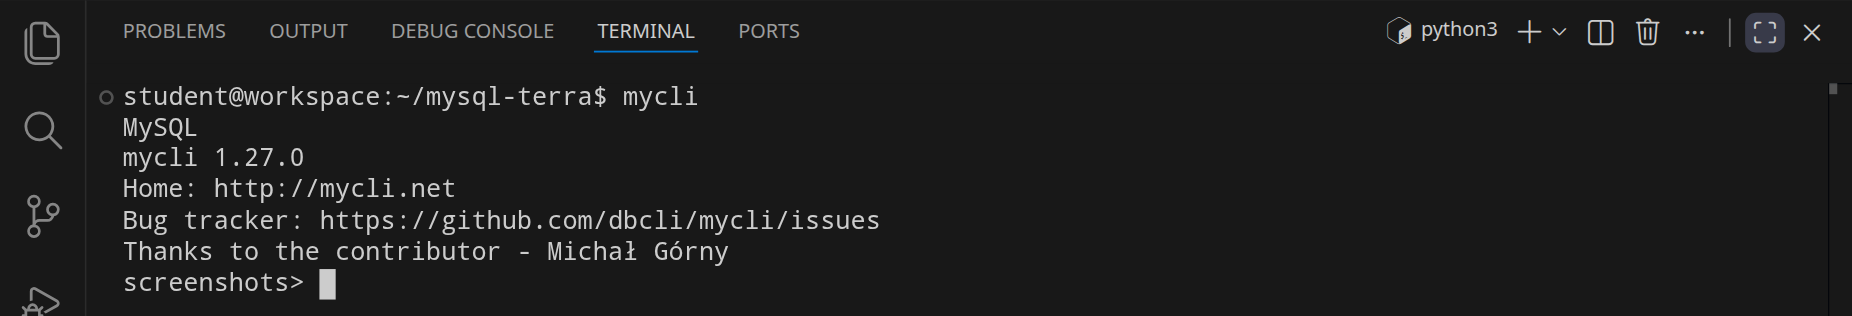
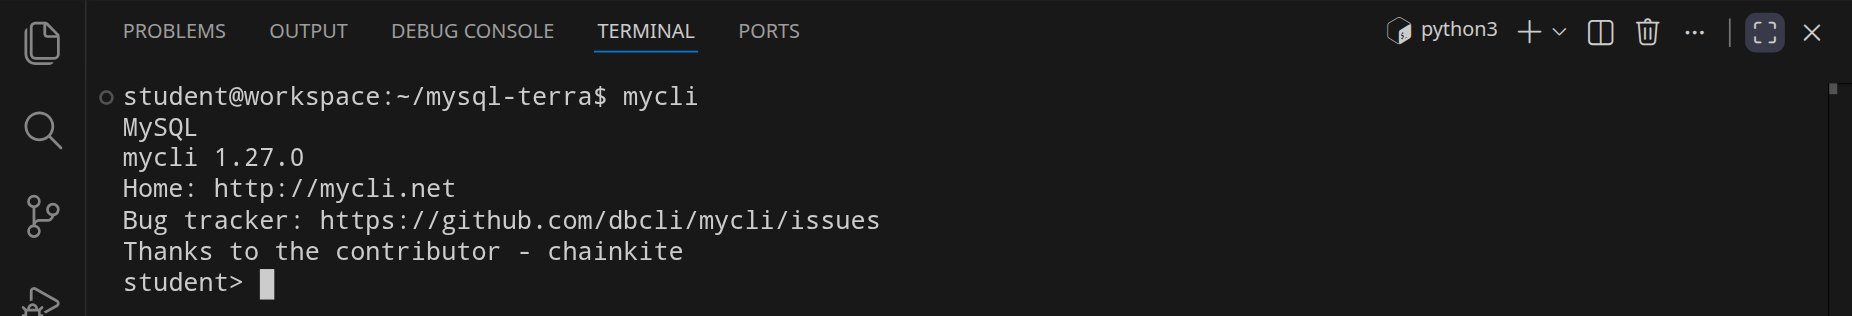
yay

Changed region(s): [[0.0616, 0.8544, 0.1847, 0.9399], [0.277, 0.769, 0.4001, 0.8259]]

diff --git a/src/tutorial-screenshots/server.js b/src/tutorial-screenshots/server.js
@@ -40,7 +40,7 @@ const CONTENT_ROOT = '/content';
 const USER_ROOT = '/user';
 const GIT_CACHE_ROOT = process.env.TUTORIAL_SCREENSHOT_GIT_CACHE_ROOT || '/git-cache';
 const BASE_URL = process.env.TUTORIAL_SCREENSHOT_BASE_URL || 'http://workspace.test:8025';
-const SCREENSHOT_EMAIL = process.env.TUTORIAL_SCREENSHOT_EMAIL || 'screenshots@example.com';
+const SCREENSHOT_EMAIL = process.env.TUTORIAL_SCREENSHOT_EMAIL || 'student@example.com';
 const SCREENSHOT_WORKSPACE_USER = process.env.TUTORIAL_SCREENSHOT_WORKSPACE_USER || 'student';
 const LOGIN_CODE = process.env.TUTORIAL_SCREENSHOT_LOGIN_CODE || '123456';
 const PORT = Number.parseInt(process.env.PORT || '9393', 10);

diff --git a/src/ruby/main.rb b/src/ruby/main.rb
@@ -2759,7 +2759,7 @@ class Main < Sinatra::Base
             end
 
             if DEVELOPMENT && (
-                    email == 'screenshots@example.com' ||
+                    email == 'student@example.com' ||
                     email.match?(/\Ae2e-\d+@example\.com\z/)
                 )
                 user_config['terminal.integrated.gpuAcceleration'] = 'off'

diff --git a/config.rb b/config.rb
@@ -12,7 +12,7 @@ PROJECT_NAME = 'workspace'
 DEV_NGINX_PORT = 8025
 DEV_NEO4J_PORT = 8021
 TUTORIAL_SCREENSHOT = {
-    :email => 'screenshots@example.com',
+    :email => 'student@example.com',
     :login_code => '123456',
     :workspace_user => 'student',
     :width => 1853,

diff --git a/src/tutorial-screenshots/README.md b/src/tutorial-screenshots/README.md
@@ -406,9 +406,7 @@ application's normal per-user database list/delete/reset/provisioning paths, so
 repeated renders start from fresh database state. The normal student-facing
 Workspace reset itself continues to preserve database contents.
 
-The screenshot account still logs in as `screenshots@example.com`, but the Unix
-workspace user is configured separately and defaults to `student`. This keeps
-terminal prompts suitable for student-facing screenshots.
+The screenshot account logs in as `student@example.com`.
 
 If a recipe action fails while a tutorial is being replayed, the generator first
 writes debug screenshots of the currently open Workspace and preview tabs (when

diff --git a/src/content/mysql/mysql.md b/src/content/mysql/mysql.md
@@ -131,6 +131,14 @@ crop-terminal-lines: 7
 
 Um dir die Tabellen in der Datenbank anzeigen zu lassen, gib den Befehl `SHOW TABLES;` ein und drücke <kbd>Enter</kbd>:
 
+<!-- tutorial-screenshot
+press: Control+L
+type: show tables;
+press: Enter
+sleep: 0.5
+#crop-terminal-lines: 8
+-->
+
 <img class='full' src='show-tables.webp' alt=''>
 
 <div class='hint'>
